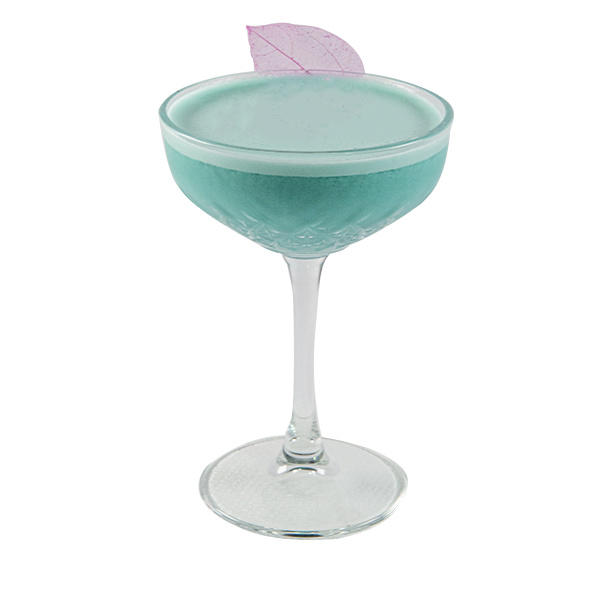
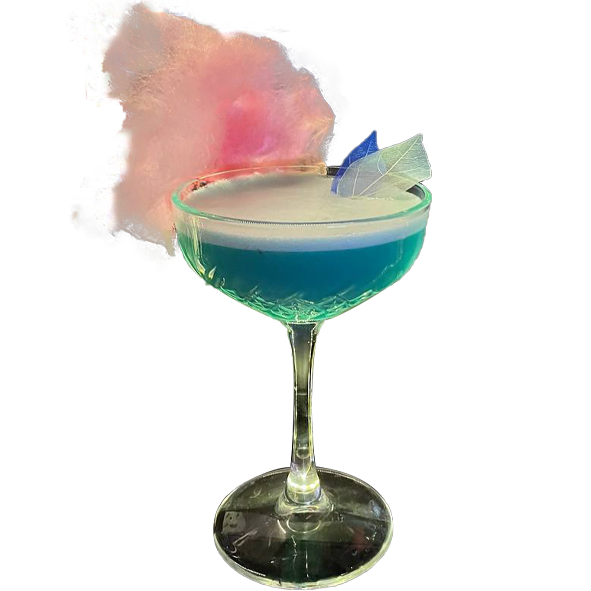
fix

diff --git a/src/components/comp/Cocotail/Data/DataCorona.js b/src/components/comp/Cocotail/Data/DataCorona.js
@@ -4,35 +4,35 @@ const CoronaMass=[
         id:1,
         title:"Корона санрайз",
         price:"159 грн",
-        src: require('../../../img/orangeLogo.png'),
+        src: require('../img/corona2.png'),
         text:"корона, текіла, сироп гренадін, апельсиновий сік, лайм",
     },
     {
         id:2,
         title:"Лікар Корона",
         price:"159 грн",
-        src: require('../../../img/orangeLogo.png'),
+        src: require('../img/corona4.png'),
         text:"корона, капітан морган голд, лікер амарето, лайм",
     },
     {
         id:3,
         title:"Корона по пляжу",
         price:"159 грн",
-        src: require('../../../img/orangeLogo.png'),
+        src: require('../img/corona3.png'),
         text:"корона, капітан морган голд, лікер грін мелон, лайм",
     },
     {
         id:4,
         title:"Аватар корона",
         price:"159 грн",
-        src: require('../../../img/orangeLogo.png'),
+        src: require('../img/corona1.png'),
         text:"корона, капітан морган голд, лікер блю курасао, лайм",
     },
     {
         id:5,
         title:"Корона з оленем",
         price:"159 грн",
-        src: require('../../../img/orangeLogo.png'),
+        src: require('../img/corona4.png'),
         text:"корона, лимонний сік, Jägermeister, лайм",
     },
 ]

diff --git a/src/components/App.jsx b/src/components/App.jsx
@@ -612,7 +612,7 @@ export const App = () => {
                           </AccordionButton>
                         </h2>
                         <AccordionPanel>
-                          <Coffe data={dataCorona} onModal={dataModal} />
+                          <List data={dataCorona} onModal={dataModal} />
                         </AccordionPanel>
                       </AccordionItem>
                       <AccordionItem>
